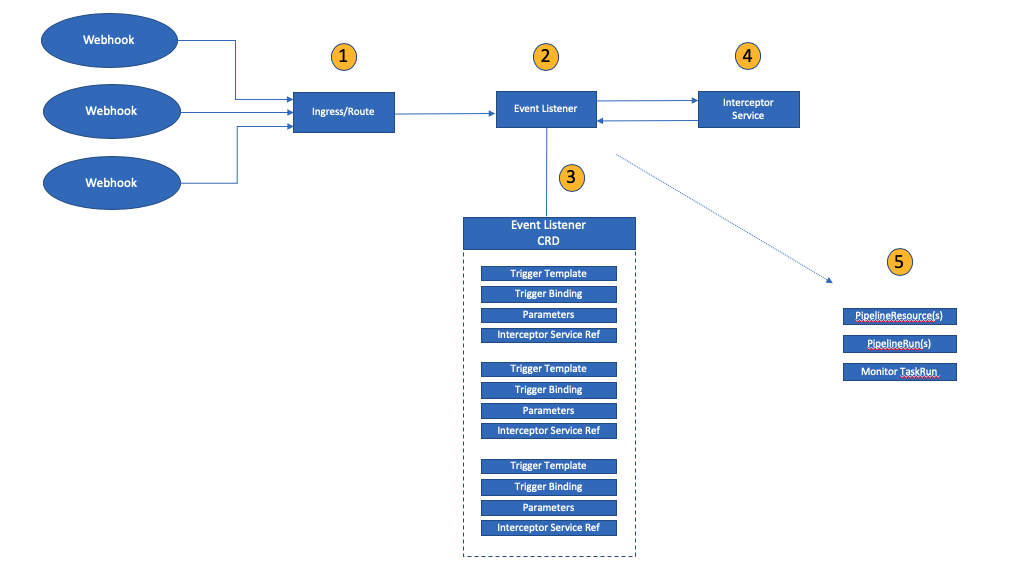
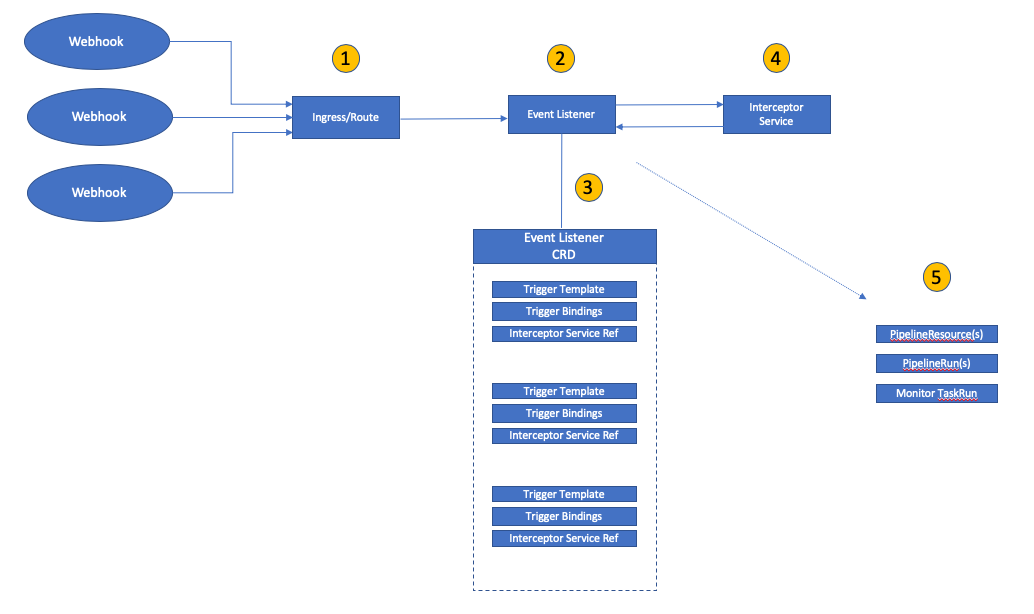
Issue #456
Doc updates primarily to remove knative terms and triggers 1.0 terms.

diff --git a/webhooks-extension/docs/Architecture.md b/webhooks-extension/docs/Architecture.md
@@ -16,15 +16,15 @@ The diagram above shows the initial configuration required prior to using the we
 
 - Installing the necessary parts of Tekton
 
-- Installing the triggertemplate for your pipeline into the same namespace as the Tekton installation. **Your triggertemplate must currently be named `<pipeline-name>-template`**.
+- Installing the `TriggerTemplate` for your `Pipeline` into the same namespace as the Tekton installation. **Your `TriggerTemplate` must currently be named `<pipeline-name>-template`**.
 
-- Installing the triggerbindings for your pipeline into the same namespace as the Tekton installation. **You need to install two triggerbindings per pipeline**, one for pull request events and one for push events.  It is believed that this is likely to be changed in a future release. **Your triggerbindings must currently be named `<pipeline-name>-push-binding` and `<pipeline-name>-pullrequest-binding`**.
+- Installing the `TriggerBindings` for your pipeline into the same namespace as the Tekton installation. **You need to install two `TriggerBindings` per `Pipeline`**, one for pull request events and one for push events.  It is believed that this is likely to be changed in a future release. **Your `TriggerBindings` must currently be named `<pipeline-name>-push-binding` and `<pipeline-name>-pullrequest-binding`**.
 
-- Creating secrets for accessing GitHub/Gitlab and Docker and patching them onto the service account under which you want your pipelinerun to execute.  These secrets need creating in the **target namespace** where you want your pipeline to run.
+- Creating secrets for accessing GitHub/Gitlab and Docker and patching them onto the service account under which you want your `PipelineRun` to execute.  These secrets need creating in the **target namespace** where you want your `Pipeline` to run.
 
-- Installing the pipeline into the **target namespace** where you want the pipeline to run.
+- Installing the `Pipeline` into the **target namespace** where you want the `Pipeline` to run.
 
-Note: On installation of the webhooks extension a number of tasks and deployments are installed that are used by the webhooks extension - these are omitted from diagram above as they are installed automatically as a consequence of installing the webhooks extension.
+Note: On installation of the webhooks extension a number of `Tasks` and `Deployments` are installed that are used by the webhooks extension - these are omitted from the diagram above as they are installed automatically as a consequence of installing the webhooks extension.
 <br/>
 <br/>
 
@@ -34,15 +34,16 @@ Note: On installation of the webhooks extension a number of tasks and deployment
 
 The diagram above shows the events that take place when webhooks are created via the UI. The process consists of:
 
-1) Creating or updating the eventlistener from a dashboard webhook request.
+1) Creating or updating the `EventListener` from a dashboard webhook request.
 For each webhook, two triggers are created. These triggers are for push and
 pull request webhook payloads from GitHub/Gitlab, where each payload is structured
 differently (highly likely you will need different bindings for the payload). A
 third trigger is created for webhooks on a distinct GitHub/Gitlab repository (no such
 webhook exists yet). This trigger is for the monitor taskrun that is created
-when a pull request event occurs on the repository.
+when a pull request event occurs on the repository.  For each trigger, an extra
+`TriggerBinding` is created to contain settings used during webhook creation.
 
-2) Creation of a ingress/route which exposes the eventlistener to the world outside of the cluster.
+2) Creation of a ingress/route which exposes the `EventListener` to the world outside of the cluster.
 
 3) Creation of the actual webhook in GitHub/Gitlab (if one does not already exist).
 
@@ -58,9 +59,9 @@ The diagram above shows what occurs at runtime when webhooks are triggered.  The
 
 1) All webhooks communicate with a single ingress/route as an access point to the cluster.
 
-2) The ingress/route is backed by the eventlistener service.  The eventlistener iterates over all of the triggers defined in the eventlistener custom resource (labeled 3) and sends a request for each trigger to the interceptor service (labeled 4).
+2) The ingress/route is backed by the `EventListener` service.  The `EventListener` iterates over all of the triggers defined in the `EventListener` custom resource (labeled 3) and sends a request for each trigger to the interceptor service (labeled 4).
 
-3) The interceptor section for each trigger within the eventlistener contains conditions under which that trigger should operate.  For example, the event is from git repository X and the event is a pull_request.
+3) The interceptor section for each trigger within the `EventListener` contains conditions under which that trigger should operate.  For example, the event is from git repository X and the event is a pull_request.
 
 4) The interceptor service's response to each request determines whether or not the trigger is valid for the incoming webhook event.  The interceptor checks:
 
@@ -70,6 +71,6 @@ The diagram above shows what occurs at runtime when webhooks are triggered.  The
     
     - Webhook event matches - so we only activate a trigger for a selected event type, a push or pull request event.
 
-5) The Tekton Triggers code creates the necessary pipelineresources, pipelineruns etc... as defined in the triggertemplate - substituting parameters as defined in the triggerbinding or from the parameters set on the trigger in the eventlistener.
+5) The Tekton Triggers code creates the necessary `PipelineResources`, `PipelineRuns` etc... as defined in the `TriggerTemplate` - substituting parameters as defined in the user supplied `TriggerBinding` or from the `TriggerBinding` created automatically during webhook creation.
 
-In the case that the event type is a pull request, a monitor taskrun will be created to monitor the pipelineruns and report status onto the pull request in GitHub/Gitlab.
+In the case that the event type is a pull request, a monitor taskrun will be created to monitor the `PipelineRuns` and report status onto the pull request in GitHub/Gitlab.

diff --git a/webhooks-extension/docs/CustomizingTheMonitor.md b/webhooks-extension/docs/CustomizingTheMonitor.md
@@ -8,14 +8,14 @@
 
 ## Introduction
 
-If the webhook is triggered due to a pull request being created (or updated with code), a monitor task will be run to track and report on the status of the configured PipelineRun that is started by the webhooks-extension.  Some customization of the default monitor task is possible along with overriding the task altogether.
+If the webhook is triggered due to a pull request being created (or updated with code), a monitor task will be run to track and report on the status of the configured `PipelineRun` that is started by the webhooks-extension.  Some customization of the default monitor task is possible along with overriding the task altogether.
 
 
 ## Changing The Polling Duration
 
-The polling duration of the `monitor-result-task` Task that comes installed with the webhooks-extension, polls the PipelineRun every 10 seconds for up to 30 minutes (1800 seconds).
+The polling duration of the `monitor-result-task` Task that comes installed with the webhooks-extension, polls the `PipelineRun` every 10 seconds for up to 30 minutes (1800 seconds).
 
-To extend the duration allowed for PipelineRun completion, you would currently need to edit the Task, either using `kubectl edit task monitor-result-task -n tekton-pipelines` or by editing a copy of the yaml and reapplying using `kubectl apply -f <path_to_yaml_file> -n tekton-pipelines`.
+To extend the duration allowed for `PipelineRun` completion, you would currently need to edit the Task, either using `kubectl edit task monitor-result-task -n tekton-pipelines` or by editing a copy of the yaml and reapplying using `kubectl apply -f <path_to_yaml_file> -n tekton-pipelines`.
 
 If you have not installed into the tekton-pipelines namespace, you would need to change the value in the command you use to edit/apply the yaml.
 
@@ -41,14 +41,14 @@ The body you POST to the REST endpoint has four properties, `onsuccesscomment`, 
 }
 ```
 
-If the PipelineRun then fails we get "Fehler" as the status.
+If the `PipelineRun` then fails we get "Fehler" as the status.
 
 ![German failure comment](./images/germanComment.png?raw=true "German failure comment on GitHub pull request")
 
 
 ## Custom Monitor Tasks
 
-Using the REST endpoint directly, it is also possible to override the Task that is created after the PipelineRun.  The Task must be specified on the pulltask property in the JSON body, for example:
+Using the REST endpoint directly, it is also possible to override the `Task` that is created after the `PipelineRun`.  The `Task` must be specified on the pulltask property in the JSON body, for example:
 
 ```
 {
@@ -66,7 +66,7 @@ Using the REST endpoint directly, it is also possible to override the Task that 
 }
 ```
 
-In this situation, after the webhook is triggered and the PipelineRun created, a TaskRun for the `my-custom-task` will be created instead of the default `monitor-result-task` Task.  The same set of inputs, output and parameters will be placed on the TaskRun as would have been placed into the TaskRun for the  `monitor-result-task` Task.
+In this situation, after the webhook is triggered and the `PipelineRun` created, a `TaskRun` for the `my-custom-task` will be created instead of the default `monitor-result-task` `Task`.  The same set of inputs, output and parameters will be placed on the `TaskRun` as would have been placed into the `TaskRun` for the  `monitor-result-task` `Task`.
 
 ```
   inputs:
@@ -90,7 +90,7 @@ The params above are populated from the data specified at webhook creation.
       value: germanmessage-1565788339-rjmzv:tekton-pipelines:simple-pipeline
 ```
 
-The `pipelineruns` parameter is currently a comma separated list of pipelinerunname:namespace:pipeline, so where two PipelineRuns were created due to the webhook triggering, this might be the string "germanmessage-1565788339-rjmzv:tekton-pipelines:simple-pipeline,englishmessage-1414141452-uwntd:default:other-pipeline".
+The `pipelineruns` parameter is currently a comma separated list of pipelinerunname:namespace:pipeline, so where two `PipelineRuns` were created due to the webhook triggering, this might be the string "germanmessage-1565788339-rjmzv:tekton-pipelines:simple-pipeline,englishmessage-1414141452-uwntd:default:other-pipeline".
 
 ``` 
     name: dashboard-url
@@ -111,4 +111,4 @@ The `dashboard-url` defaults to `http://localhost:9097/` unless a value can be f
         name: pull-request-n2dfs
 ```
 
-A PipelineResource of type pullRequest is created and added to the TaskRun as both an input and output resource.
+A `PipelineResource` of type pullRequest is created and added to the `TaskRun` as both an input and output resource.

diff --git a/webhooks-extension/docs/Limitations.md b/webhooks-extension/docs/Limitations.md
@@ -2,31 +2,20 @@
 <br/>
 
 - Only GitHub and Gitlab webhooks are currently supported.
+- Status reporting on Gitlab merge requests does not fully function due to Gitlab architecture.
 - Your git server host URL needs to contain github or gitlab in its name.
-- Webhooks in GitHub are sometimes left behind after deletion (details further below).
 - Only `push` and `pull_request` events are currently supported for GitHub, these are the events defined on the webhook, tag creation shows as a push event and will also trigger pipelines.
-- Only `push` and `tag push` and `merge request` events are currently supported for GitLab, these are the events defined on the webhook.
-- The trigger template needs to be available in the install namespace with the name `<pipeline-name>-template` (details further below).
-- The two trigger bindings need to available in the install namespace with the names `<pipeline-name>-push-binding` and `<pipeline-name>-pullrequest-binding` (details further below).
-- Limited configurable parameters are added to the trigger in the eventlistener through the UI, statics could be added in your trigger binding (details further below).
+- Only `push`, `tag push` and `merge request` events are currently supported for GitLab, these are the events defined on the webhook.
+- The `TriggerTemplate` needs to be available in the install namespace with the name `<pipeline-name>-template` (details further below).
+- The two `TriggerBindings` need to available in the install namespace with the names `<pipeline-name>-push-binding` and `<pipeline-name>-pullrequest-binding` (details further below).
+- Limited configurable parameters are added to the trigger in the `EventListener` through the UI, statics could be added in your `TriggerBinding` (details further below).
 
-## Deleted webhooks can still be rendered until a refresh occurs
-
-The Webhooks Extension component does not currently work with all `Pipelines`, it very specifically creates the following when the webhook is triggered:
-Due to a bug in *our* codebase, a scenario exists whereby deleted webhooks can appear on the webhooks display table. This scenario is known to occur under the following circumstance.
-
-- Create a webhook named `-`
-- Create a webhook named `--`
-- Create a webhook with an appropriate name e.g. `mywebhook`
-- Attempt to delete all three webhooks
-
-An error is displayed mentioning that problems occurred deleting webhooks (the ones named - and -), but `mywebhook` has actually been deleted. It is only until you refresh the page that this webhook will no longer be displayed.
 
 ## Tekton Triggers Information
 
 #### Trigger Template & Trigger Bindings
 
-As the UI does not currently offer the ability to select a trigger template or trigger binding, the current backend code expects to find trigger template and binding with fixed names prefixed with the pipeline name.
+As the UI does not currently offer the ability to select a `TriggerTemplate` or `TriggerBinding`, the current backend code expects to find trigger template and bindings with fixed names prefixed with the pipeline name.
 
 - `<pipeline-name>-template`
 - `<pipeline-name>-push-binding`
@@ -36,9 +25,9 @@ The reason for requesting two bindings is due to the event payload being differe
 
 #### Event Listener Parameters
 
-When a webhook is created through the dashboard UI, a number of parameters are made available to the trigger template through the event listener.  The parameters added to the trigger in the event listener are:
+When a webhook is created through the dashboard UI, a number of parameters are made available to the `TriggerTemplate` through the `EventListener`.  The parameters added to the trigger in the `EventListener` are:
 
-It is important to note the names of the parameters, should you wish to use the extension with your own trigger templates and make use of these values.
+It is important to note the names of the parameters, should you wish to use the extension with your own `TriggerTemplates` and make use of these values.
 
 ```
 params:

diff --git a/webhooks-extension/docs/Monitoring.md b/webhooks-extension/docs/Monitoring.md
@@ -1,18 +1,24 @@
 # Pull Request Status Updates 
 
-Note:- The terms and images used in this documentation relate to Github, however the monitor does also updates status and comments on Gitlab merge requests.  
+Note:- The terms and images used in this documentation relate to Github.  
 
-If the webhook is triggered due to a pull request being created or updated with code, a monitor task will be run to track and report on the status of the configured PipelineRun that is started by the webhooks-extension.  The sequence of events are as follows:
+If the webhook is triggered due to a pull request being created or updated with code, a monitor task will be run to track and report on the status of the configured `PipelineRun` that is started by the `EventListener`.
 
-1.  Creation of a PipelineRun by the webhooks-extension's `sink` handler occurs in response to the configured webhook.
+1.  Each webhook created in the webhooks extension console relates to three triggers registered with the webhooks extension's `EventListener`.
 
-2.  When the PipelineRun is created, a TaskRun is also created for the `monitor-result-task` Task.
+2.  The three triggers are conceptually as follows:  
 
-3.  The monitor-result-task updates the pull request, putting its status into pending.
+    - run the relevant `Pipeline` for push events on this repo
+    - run the relevant `Pipeline` for pull_request events on this repo
+    - run a monitor `Task` for pull_request events on this repo
+
+3.  A `PipelineRun` and `TaskRun` are therefore created by the `EventListener` merging together `TriggerTemplates` with `TriggerBindings`.
+
+4.  The monitor-result-task updates the pull request, putting its status into pending.
 
 ![Pending status on pull request](./images/pendingStatus.png?raw=true "Pending status shown on a GitHub pull request")
 
-4.  The monitor-result-task periodically checks the PipelineRun for completion and changes the pull request's status accordingly to one of success, failure or error.
+5.  The monitor-result-task periodically checks the `PipelineRun` for completion and changes the pull request's status accordingly to one of success, failure or error.
 
 ![Success status on pull request](./images/successStatus.png?raw=true "Success status shown on a GitHub pull request")
 
@@ -20,7 +26,7 @@ If the webhook is triggered due to a pull request being created or updated with 
 
 ![Error status on pull request](./images/errorStatus.png?raw=true "Error status shown on a GitHub pull request")
 
-5.  A comment is added to the pull request showing the result of the PipelineRun. The reported status operates as a hyperlink to the specific PipelineRun in the Tekton Dashboard, allowing you to quickly navigate to any relevant log files.  Note that `Unknown` as a status denotes that the PipelineRun had not completed before the monitor Task reached its maximum polling duration (30 mins).  
+6.  A comment is added to the pull request showing the result of the `PipelineRun`. The reported status operates as a hyperlink to the specific `PipelineRun` in the Tekton Dashboard, allowing you to quickly navigate to any relevant log files.  Note that `Unknown` as a status denotes that the `PipelineRun` had not completed before the monitor `TaskRun` reached its maximum polling duration (30 mins).  
 
 ![PipelineRun status reporting](./images/comment.png?raw=true "PipelineRun status report as comment on GitHub pull request")
 

diff --git a/webhooks-extension/docs/Labels.md b/webhooks-extension/docs/Labels.md
@@ -1,11 +1,11 @@
 # Labelling PipelineRuns
 
-The webhooks extension's graphical user interface (GUI) provides the ability to display the status of the latest pipelinerun for branches of a specified webhook.  This listing is seen by clicking on the webhook name in the webhook table.
+The webhooks extension's graphical user interface (GUI) provides the ability to display the status of the latest `PipelineRun` for branches of a specified webhook.  This listing is seen by clicking on the webhook name in the webhook table.
 
 For this functionality to work, users must:  
 <br/>
 
-1. Add labels to the pipelineruns metadata defined in the pipeline's triggertemplate.  The labels required are:
+1. Add labels to the pipelinerun's metadata defined in the pipeline's triggertemplate.  The labels required are:
 
 ```
   webhooks.tekton.dev/gitBranch: $(params.webhooks-tekton-git-branch)
@@ -35,7 +35,7 @@ Example excerpt:
 <br/>
 
 
-2. Three of the `params` are automatically available to the triggertemplate at runtime, however `params.webhooks-tekton-git-server` needs to be extracted from the triggering event's payload. In the pipeline's triggerbinding files (both push and pullrequest) add the following entry to the params to make webhooks-tekton-git-server available as a param to the triggertemplate:
+2. Three of the `params` are automatically available to the `TriggerTemplate` at runtime, however `params.webhooks-tekton-git-server` needs to be extracted from the triggering event's payload. In the pipeline's `TriggerBinding` files (both push and pullrequest) add the following entry to the params to make webhooks-tekton-git-server available as a param to the `TriggerTemplate`:
 
 ```
   - name: webhooks-tekton-git-branch
@@ -57,8 +57,8 @@ spec:
 ```  
 <br/>
 
-Once these steps have been taken, new pipelineruns will be configured correctly such that clicking on a webhook will render a listing similar to the image below:
+Once these steps have been taken, new `Pipelineruns` will be configured correctly such that clicking on a webhook will render a listing similar to the image below:
 
 ![Latest pipelinerun status for a webhook, displayed by branch with clickable link](./images/webhookBranches.png?raw=true "Latest pipelinerun status for a webhook, displayed by branch with clickable link")
 
-Clicking on the branch name will navigate to a filtered list of pipelineruns for this pipeline running against the specific branch of the repository.
+Clicking on the branch name will navigate to a filtered list of `PipelineRuns` for this pipeline running against the specific branch of the repository.

diff --git a/webhooks-extension/docs/GettingStarted.md b/webhooks-extension/docs/GettingStarted.md
@@ -116,39 +116,6 @@ Accepted Formats:
 - my.registry/foo
 - image-registry.openshift-image-registry.svc:5000/**existing namespace here** (for OpenShift 4.2)
 
-### Notes for Amazon EKS
-
-After creation of the webhook, the following manual steps are necessary to make the webhook work in Amazon EKS environment.
-
-1. Edit `el-tekton-webhooks-eventlistener` Ingress and add 2 annotations in the `metadata` section.
-
-```
-  metadata:
-    annotations:
-      alb.ingress.kubernetes.io/scheme: internet-facing
-      kubernetes.io/ingress.class: alb
-```
-
-2. Edit `tekton-webhooks-eventlistener` EventListener and add `serviceType` `LoadBalancer` in the `spec` section
-
-```
-  spec:
-    serviceType: LoadBalancer
-```
-
-3. Wait for `get ingress el-tekton-webhooks-eventlistener -n tekton-pipelines` showing the ADDRESS for the el-tekton-webhooks-eventlistener ingress
-
-4. Edit `el-tekton-webhooks-eventlistener` Ingress again and update the URL of the `host` with the ADDRESS of the ingress
-
-
-```
-  spec:
-    rules:
-    - host: xxxx.yyy.elb.amazonaws.com
-```
-
-5. Update the `Payload URL` in the webhook in github.com repositry (Settings->Webhoks->"webhook with dummy URL"->Payload URL) to the ADDRESS of the ingress
-
 
 ## Putting it all together: test it's working
 
@@ -172,4 +139,4 @@ You can use `kubectl logs [pod-name] --all-containers` to check the output of ea
 
 ### 404 or 503 error in GitHub (red "x" next to your webhook)
 
-Sometimes the sink is not ready in time to receive a webhook event, and GitHub will report a 404 or 503 error. If this happens, you can redeliver the event from the GitHub webpage under the "Settings" > "Hooks" section to fix the problem.
+Sometimes the eventlistener service is not ready in time to receive a webhook event, and GitHub will report a 404 or 503 error. If this happens, you can redeliver the event from the GitHub webpage under the "Settings" > "Hooks" section to fix the problem.

diff --git a/webhooks-extension/docs/AmazonEKS.md b/webhooks-extension/docs/AmazonEKS.md
@@ -1,0 +1,32 @@
+## Notes for Amazon EKS
+
+After creation of your first webhook, the following manual steps are necessary to make the webhook work in Amazon EKS environment.
+
+1. Edit `el-tekton-webhooks-eventlistener` Ingress and add 2 annotations in the `metadata` section.
+
+```
+  metadata:
+    annotations:
+      alb.ingress.kubernetes.io/scheme: internet-facing
+      kubernetes.io/ingress.class: alb
+```
+
+2. Edit `tekton-webhooks-eventlistener` EventListener and add `serviceType` `LoadBalancer` in the `spec` section
+
+```
+  spec:
+    serviceType: LoadBalancer
+```
+
+3. Wait for `get ingress el-tekton-webhooks-eventlistener -n tekton-pipelines` showing the ADDRESS for the el-tekton-webhooks-eventlistener ingress
+
+4. Edit `el-tekton-webhooks-eventlistener` Ingress again and update the URL of the `host` with the ADDRESS of the ingress
+
+
+```
+  spec:
+    rules:
+    - host: xxxx.yyy.elb.amazonaws.com
+```
+
+5. Update the `Payload URL` in the webhook in github.com repositry (Settings->Webhoks->"webhook with dummy URL"->Payload URL) to the ADDRESS of the ingress

diff --git a/webhooks-extension/README.md b/webhooks-extension/README.md
@@ -30,8 +30,9 @@ used to install a specified version of the dashboard and the webhook extension.
 [Labelling Pipeline Runs For UI Display](./docs/Labels.md)  
 [Multiple Pipelines](./docs/MultiplePipelines.md)  
 [Pull Request Status Updates](./docs/Monitoring.md)  
-[Security](./docs/Security.md)
+[Security](./docs/Security.md)  
 [Additional Notes If Using Red Hat OpenShift](./docs/NotesOnOpenShiftInstallations.md)  
+[Additional Notes If Using Amazon EKS](./docs/AmazonEKS.md)  
 [Limitations](./docs/Limitations.md)  
 
 ### Architecture Guide
